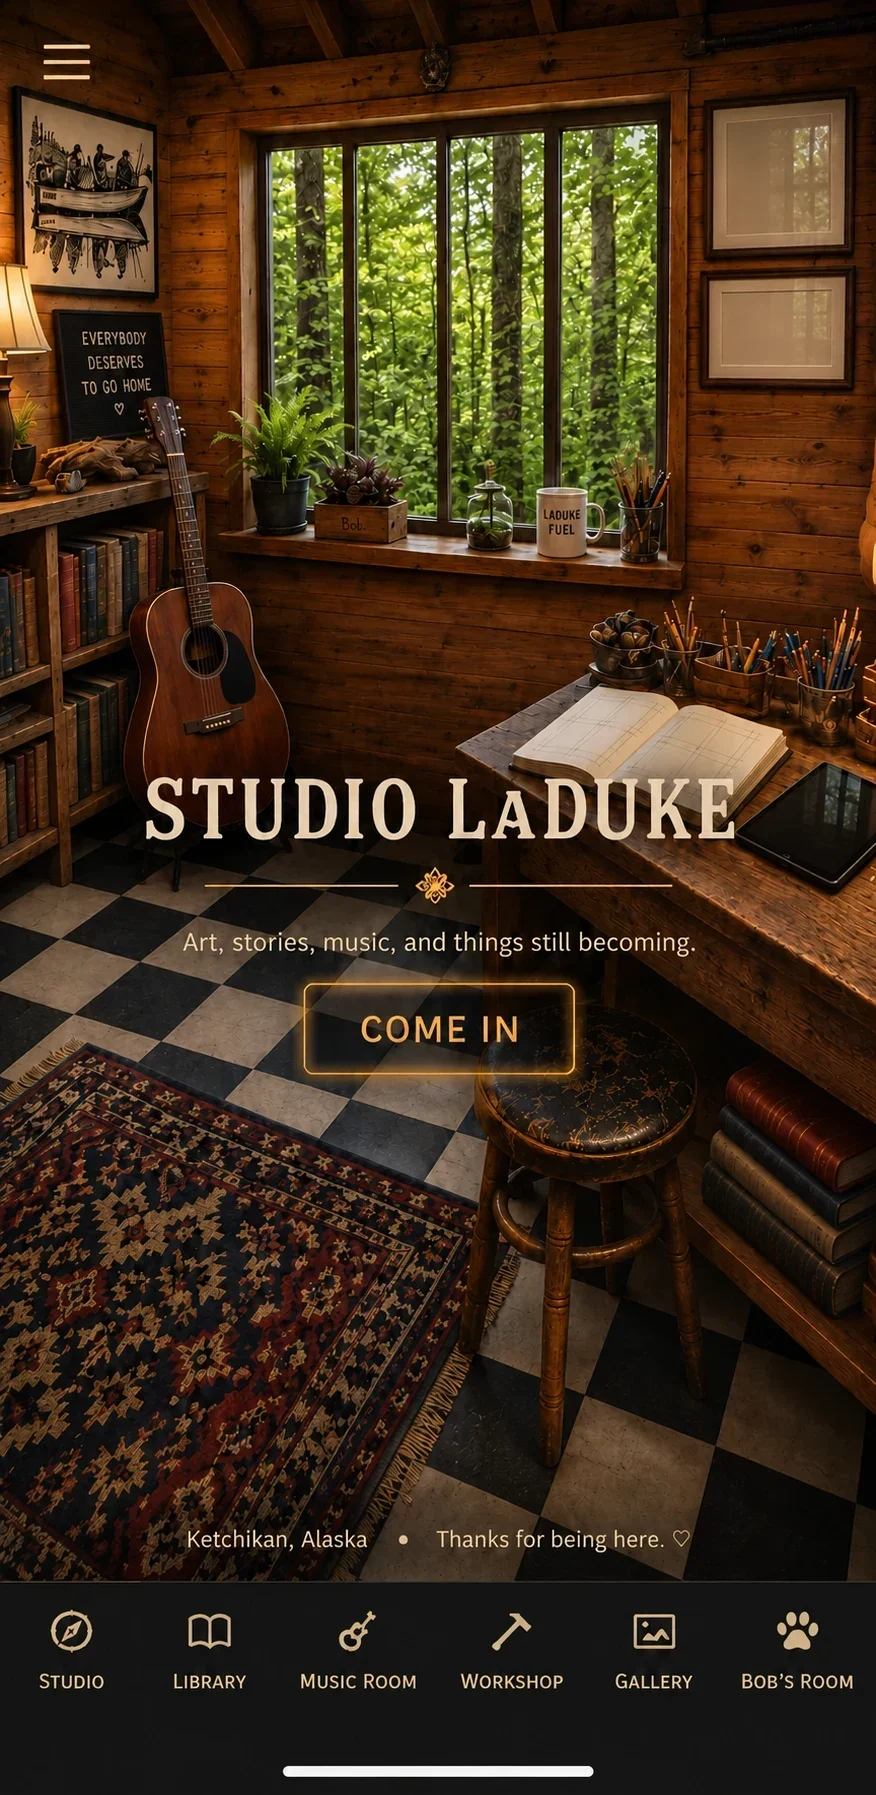
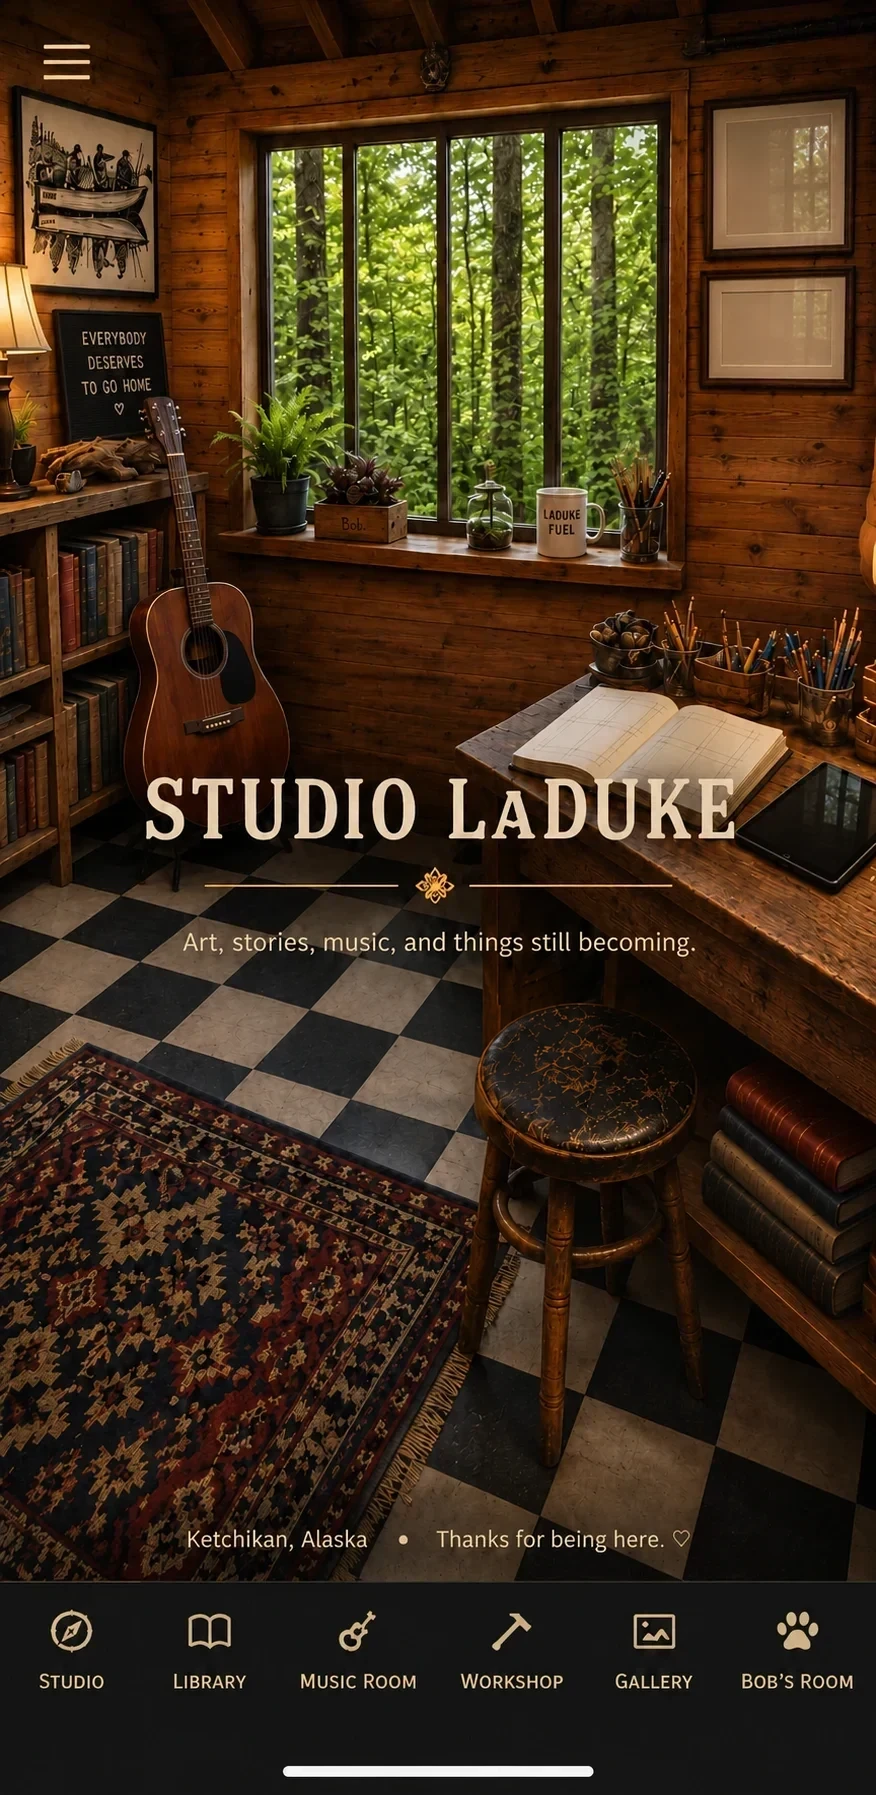
Replace the front-room door with scene-aligned Enter

Changed region(s): [[0.339, 0.5304, 0.6781, 0.624]]

diff --git a/index.html b/index.html
@@ -53,66 +53,52 @@
       font: inherit;
     }
 
-    /* COME IN hotspot over the button inside the artwork */
-
     .enter {
       position: absolute;
       left: 47.45%;
-      top: 70%;
+      top: 70.2%;
       z-index: 20;
-
-      width: 12.5%;
-      height: 6%;
-
-      transform: translate(-50%, -50%);
-
       display: grid;
       place-items: center;
-      border: 4px solid #2c190e;
-      border-radius: 2px;
-      overflow: hidden;
-      background:
-        linear-gradient(90deg,transparent 0 47%,#2a160a 48% 52%,transparent 53%),
-        repeating-linear-gradient(90deg,#5a321a 0 17%,#704322 18% 32%,#4d2a16 33% 49%);
-      box-shadow: inset 0 0 0 2px #9a6632, inset 0 0 18px #120905, 0 8px 12px #000a;
-      color: transparent;
-
+      min-width: max(100px, 10%);
+      min-height: 48px;
+      color: #f6deb0;
+      font-size: clamp(28px, 3.25vw, 55px);
+      font-weight: 700;
+      line-height: 1;
+      text-decoration: none;
+      text-shadow: 0 1px #543118, 0 2px 4px #1e1009, 0 5px 13px #261409;
+      transform: translate(calc(-50% + var(--entry-drift-x, 0px)), calc(-50% + var(--entry-drift-y, 0px)));
       -webkit-tap-highlight-color: transparent;
     }
 
-    .enter::before {
-      content: "STUDIO";
-      position: absolute;
-      left: 12%;
-      top: 18%;
-      padding: .22em .45em;
-      color: #26190e;
-      background: #bc9a5f;
-      border: 1px solid #4d351b;
-      box-shadow: 0 2px 2px #0008;
-      font: 700 clamp(5px, .62vw, 10px)/1 Georgia, serif;
-      letter-spacing: .08em;
-      transform: rotate(-1deg);
-    }
-
-    .enter::after {
-      content: "";
-      position: absolute;
-      right: 12%;
-      top: 42%;
-      width: 12%;
-      aspect-ratio: 1;
-      border-radius: 50%;
-      background: radial-gradient(circle at 35% 30%, #ffe5a1, #9b681f 48%, #352008 75%);
-      box-shadow: 0 2px 3px #000b, 0 0 5px #ffd87355;
+    .enter span {
+      display: block;
+      transform: perspective(420px) rotateY(-8deg) rotateZ(-4deg);
     }
 
     .enter:hover,
     .enter:focus-visible {
-      outline: 2px solid rgba(245, 205, 125, 0.8);
-      outline-offset: 3px;
-      filter: brightness(1.18);
-      transform: translate(-50%, -50%) perspective(100px) rotateY(-4deg);
+      color: #fff2d3;
+    }
+
+    .enter:focus-visible {
+      outline: none;
+    }
+
+    .enter:focus-visible span {
+      text-decoration: underline;
+      text-decoration-thickness: .08em;
+      text-underline-offset: .18em;
+    }
+
+    @media (hover: hover) and (pointer: fine) and (prefers-reduced-motion: no-preference) {
+      .front-room {
+        transform: translate(calc(-50% + var(--room-drift-x, 0%)), calc(-50% + var(--room-drift-y, 0%))) scale(1.01);
+        transition: transform 420ms ease-out;
+      }
+
+      .enter { transition: transform 420ms ease-out, color 150ms ease; }
     }
 
     /* Front-room interactions */
@@ -647,13 +633,12 @@
       }
 
       .enter {
-        left: 50%;
-        top: 57.4%;
-        width: 31.1%;
-        height: 6.2%;
-        border-width: 3px;
+        left: 49.5%;
+        top: 57.6%;
+        font-size: clamp(29px, 8vw, 42px);
       }
-      .enter::before { font-size: 8px; }
+
+      .enter span { transform: perspective(350px) rotateY(-10deg) rotateZ(-5deg); }
 
       .lamp-glow {
         left: -3%;
@@ -780,11 +765,7 @@
       <a class="mounted-art mount-tall hump-day" style="left:82.534247%;top:16.434540%;width:12.557078%;height:4.122563%" href="gallery.html?from=front-room&amp;art=9EAA20AB-901D-41E1-AC98-64455D1A291D.png"><img src="assets/front-art/hump-day.webp" alt="Hump Day" decoding="async"></a>
     </div>
 
-    <a
-      class="enter"
-      href="workshop.html"
-      aria-label="Come into Studio LaDuke"
-    ></a>
+    <a class="enter" href="workshop.html" aria-label="Enter the Studio LaDuke workshop"><span>Enter</span></a>
 
     <button class="room-hotspot lamp-hotspot" id="lampHotspot" type="button" aria-label="Turn the desk lamp off or on"></button>
     <button class="room-hotspot guitar-hotspot" id="guitarHotspot" type="button" aria-label="Play the guitar"></button>

diff --git a/assets/front-room.js b/assets/front-room.js
@@ -97,3 +97,24 @@ function placeFrontRoom() {
 placeFrontRoom();
 new ResizeObserver(placeFrontRoom).observe(room);
 narrowRoom.addEventListener("change", placeFrontRoom);
+
+
+const movingView = matchMedia("(hover: hover) and (pointer: fine) and (prefers-reduced-motion: no-preference)");
+
+function resetViewpoint() {
+  for (const property of ["--room-drift-x", "--room-drift-y", "--entry-drift-x", "--entry-drift-y"]) {
+    room.style.removeProperty(property);
+  }
+}
+
+room.addEventListener("pointermove", (event) => {
+  if (!movingView.matches || event.pointerType !== "mouse") return;
+  const x = (event.clientX / innerWidth - .5) * 2;
+  const y = (event.clientY / innerHeight - .5) * 2;
+  room.style.setProperty("--room-drift-x", `${x * -.32}%`);
+  room.style.setProperty("--room-drift-y", `${y * -.3}%`);
+  room.style.setProperty("--entry-drift-x", `${x * -2}px`);
+  room.style.setProperty("--entry-drift-y", `${y * -1.5}px`);
+}, { passive: true });
+room.addEventListener("pointerleave", resetViewpoint);
+movingView.addEventListener("change", resetViewpoint);
